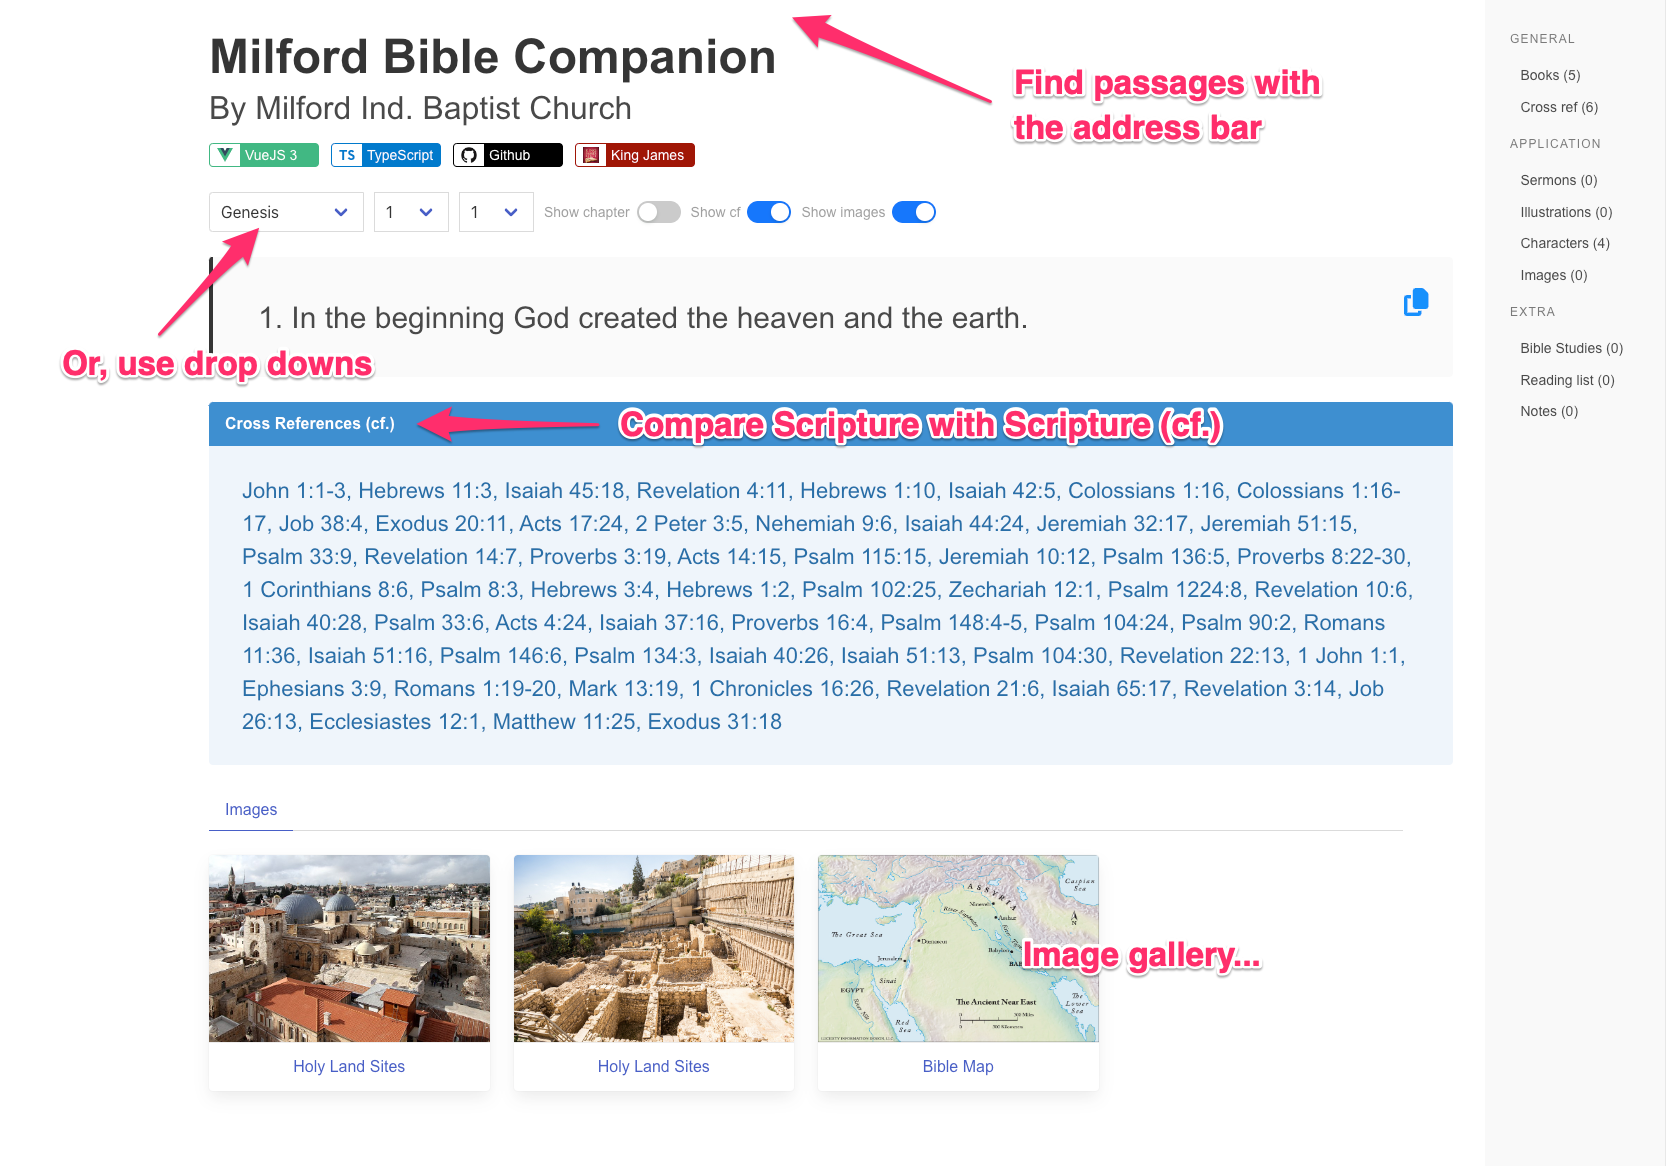
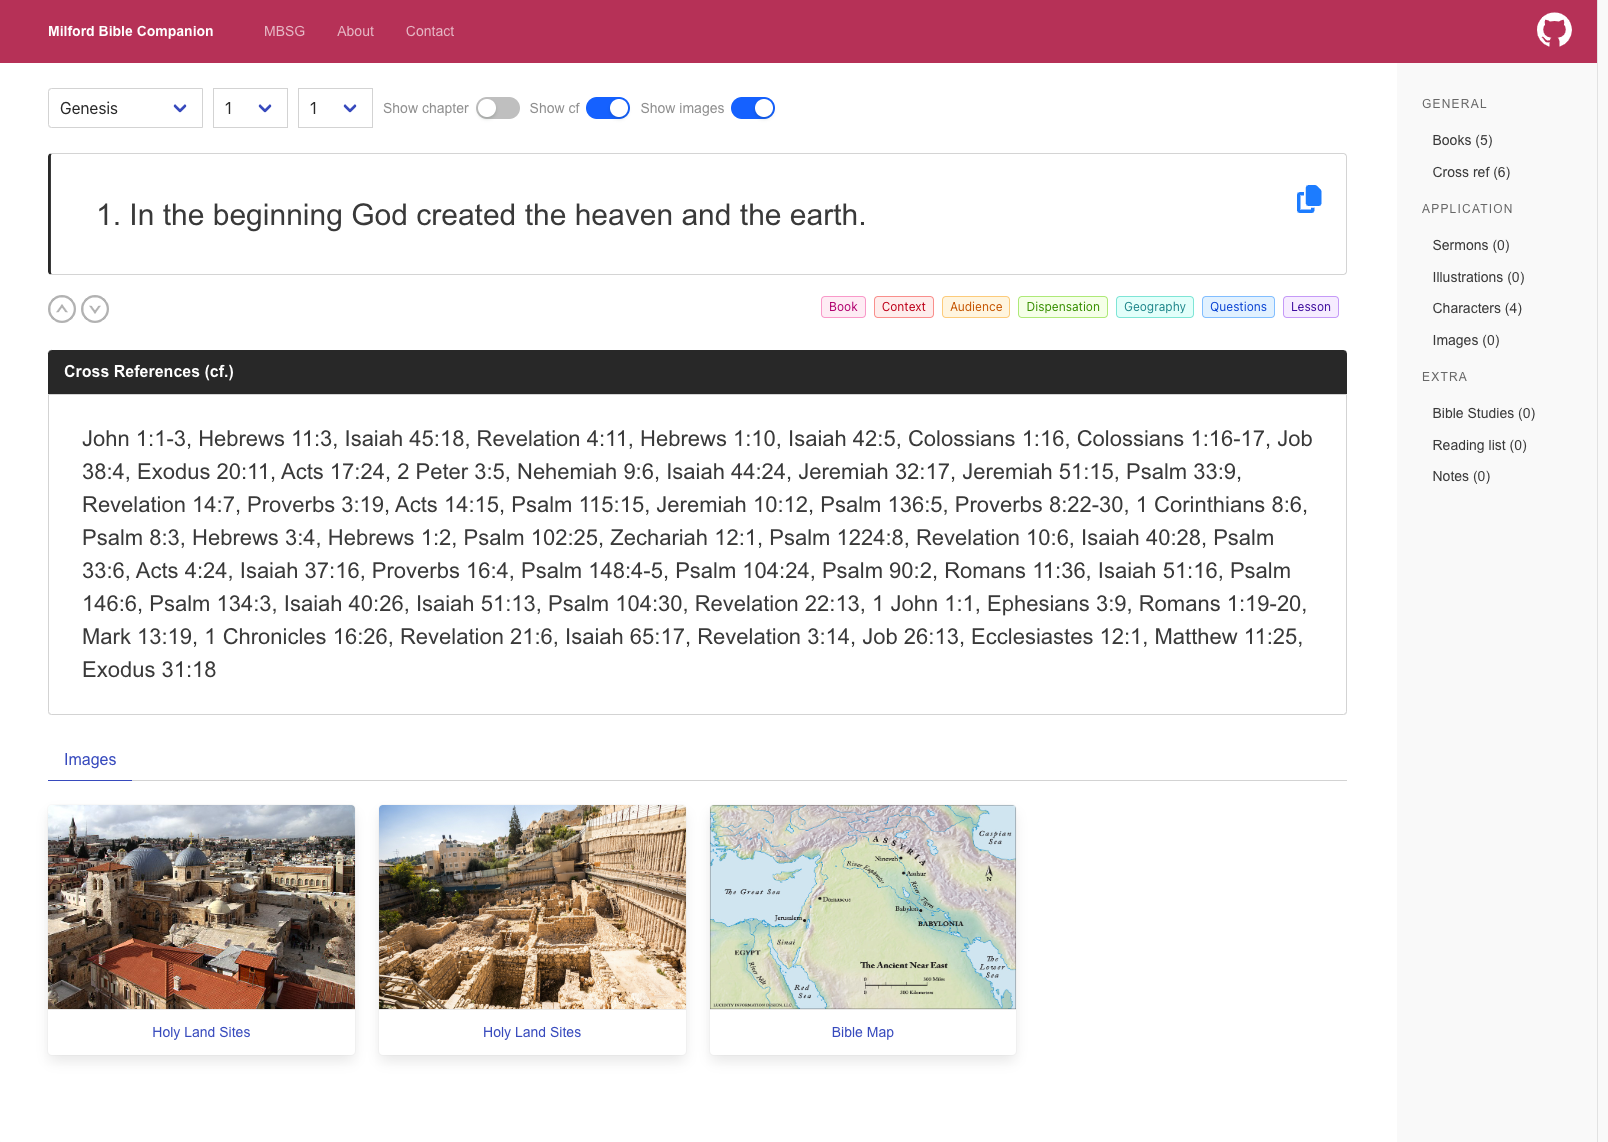
Update screenshot

diff --git a/src/components/Selector.vue b/src/components/Selector.vue
@@ -56,6 +56,21 @@
 		    <div v-if="!loading" v-html="bookRef.text"></div>
 		  </div>
 		</article>
+	  <a-row style="margin: 20px 0 0 0">
+	    <a-col :span="12">
+				<UpCircleOutlined style="margin-right: 5px; font-size: 28px; color: #bfbfbf" />
+				<DownCircleOutlined style="font-size: 28px; color: #bfbfbf" />
+	    </a-col>
+	    <a-col :span="12" style="text-align: right">
+			    <a-tag color="pink">Book</a-tag>
+			    <a-tag color="red">Context</a-tag>
+			    <a-tag color="orange">Audience</a-tag>
+			    <a-tag color="green">Dispensation</a-tag>
+			    <a-tag color="cyan">Geography</a-tag>
+			    <a-tag color="blue">Questions</a-tag>
+			    <a-tag color="purple">Lesson</a-tag>
+	    </a-col>
+	  </a-row>
 		<ChapterList v-bind:bookRef="bookRef" v-bind:showChapterState="showChapterState" />
     <div v-for="items in dataSource">
         <div v-for="item in items[`${bookRef.name} ${bookRef.selected.chapter}:${bookRef.selected.verse}` as keyof typeof items]">
@@ -130,6 +145,7 @@
 <script lang="ts">
 	import { ref, reactive } from 'vue';
 	import router from '../router'
+	import { UpCircleOutlined, DownCircleOutlined } from '@ant-design/icons-vue';
 	import { useClipboard } from '@vueuse/core'
 	import { getJsonData } from '../common/utils';
 	import {

diff --git a/src/App.vue b/src/App.vue
@@ -41,11 +41,11 @@
 				<GithubOutlined />
 			</a>
 	  </a-layout-header>
-		<a-layout style="height: 100%;background: none">
+		<a-layout style="background: none">
 		  <a-layout-content style="padding: 0 50px;">
 	  		<RouterView />
   		</a-layout-content>
-			<a-layout-sider style="background: none">
+			<a-layout-sider style="height: 100%; background: none">
 				<SideNav
 					:booksCount="bookCount"
 					:crossRefCount="crossRefCount"

diff --git a/src/assets/main.scss b/src/assets/main.scss
@@ -5,7 +5,7 @@
 }
 
 html, body {
-	height: 100%;
+	height: 100%; 
 	background: #ffffff;
 }
 
@@ -20,8 +20,8 @@ h4 {
 }
 
 #app {
+	height: 100%; 
   font-weight: normal;
-	height: 100%;
 }
 
 .logo {
@@ -40,7 +40,7 @@ h4 {
 .side-nav {
 	background: #fafafa;
 	width: 100%;
-	height: 100vh;
+	height: 100%;
 	padding: 2rem 25px 25px 25px;
 }
 
